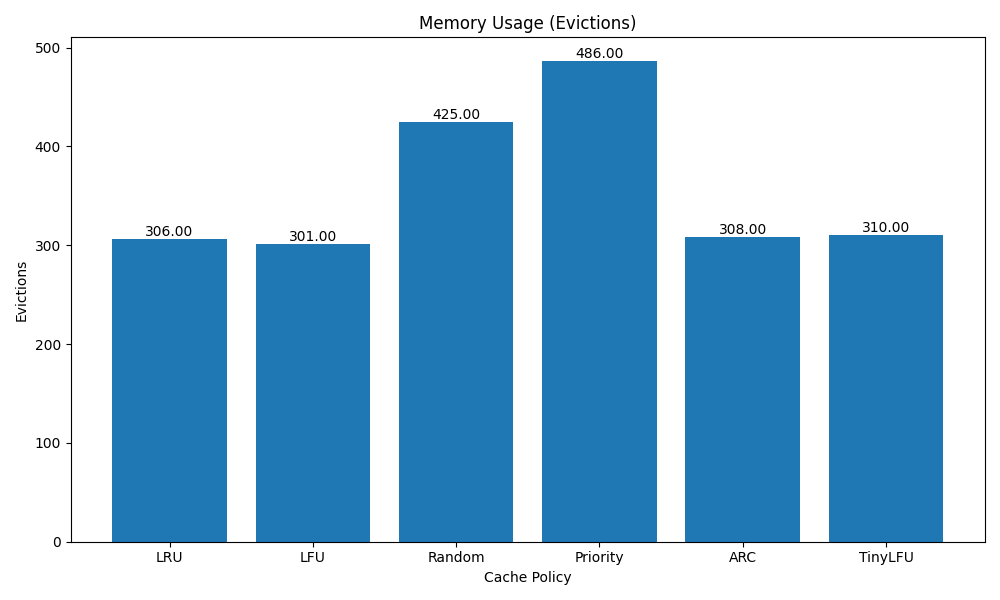
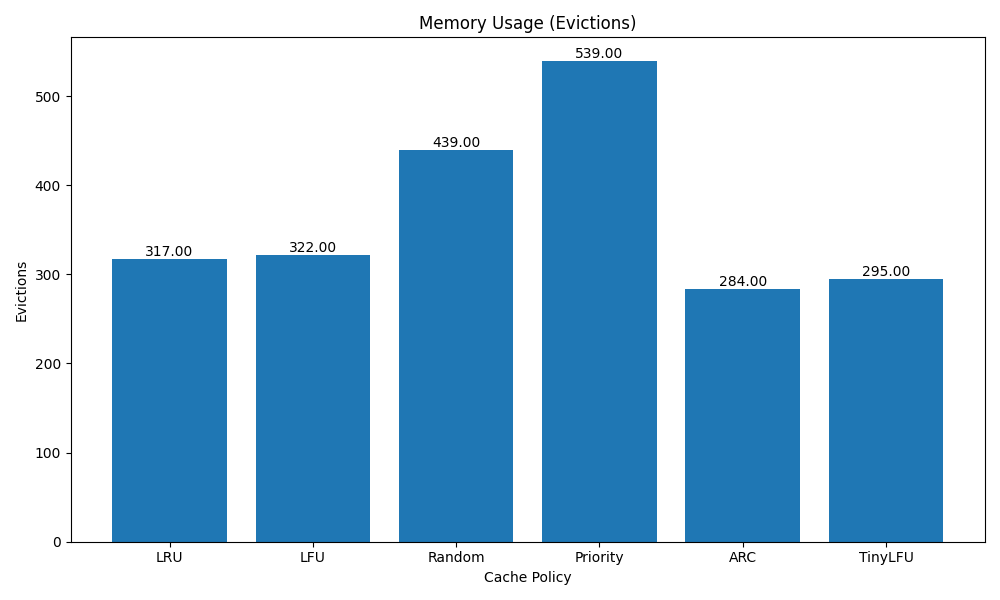
priority policy updated

diff --git a/cache/policies/priority_policy.py b/cache/policies/priority_policy.py
@@ -10,7 +10,7 @@ class PriorityPolicy(EvictionPolicy):
 
     def record_access(self, node):
 
-        self.priority_counter += 1
+        self.priority_counter += 0.5
         heapq.heappush(self.heap, (self.priority_counter, node))
 
     def evict(self):
